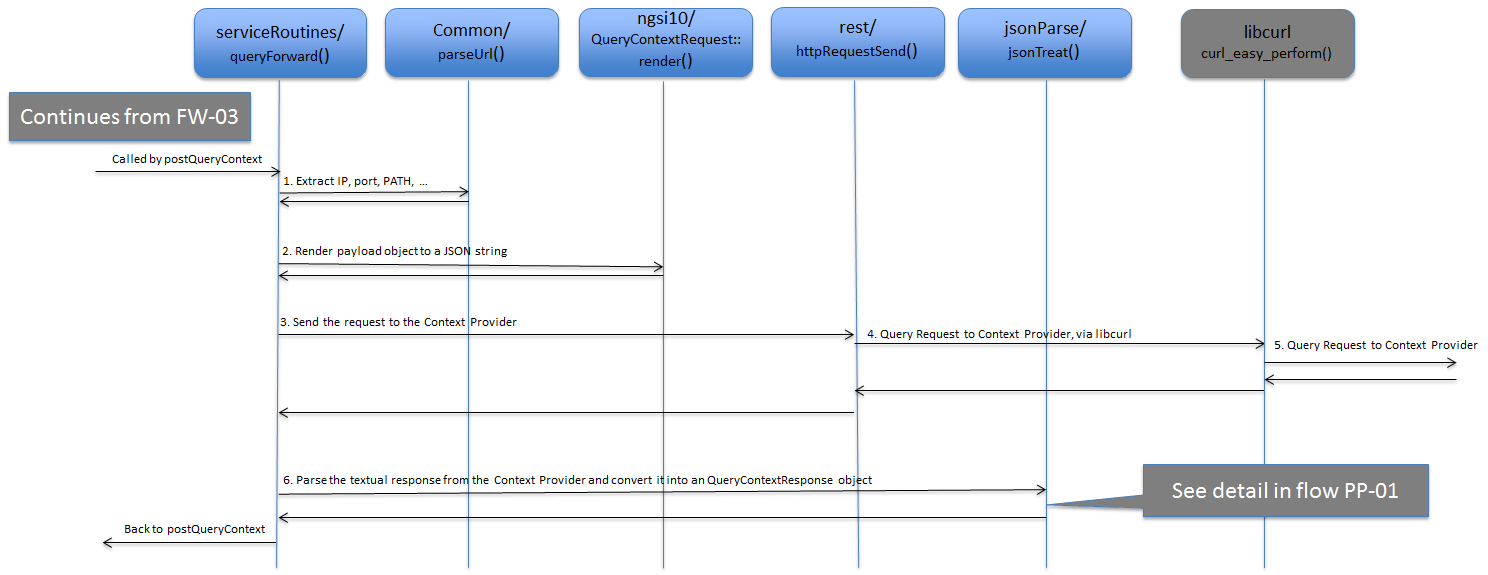
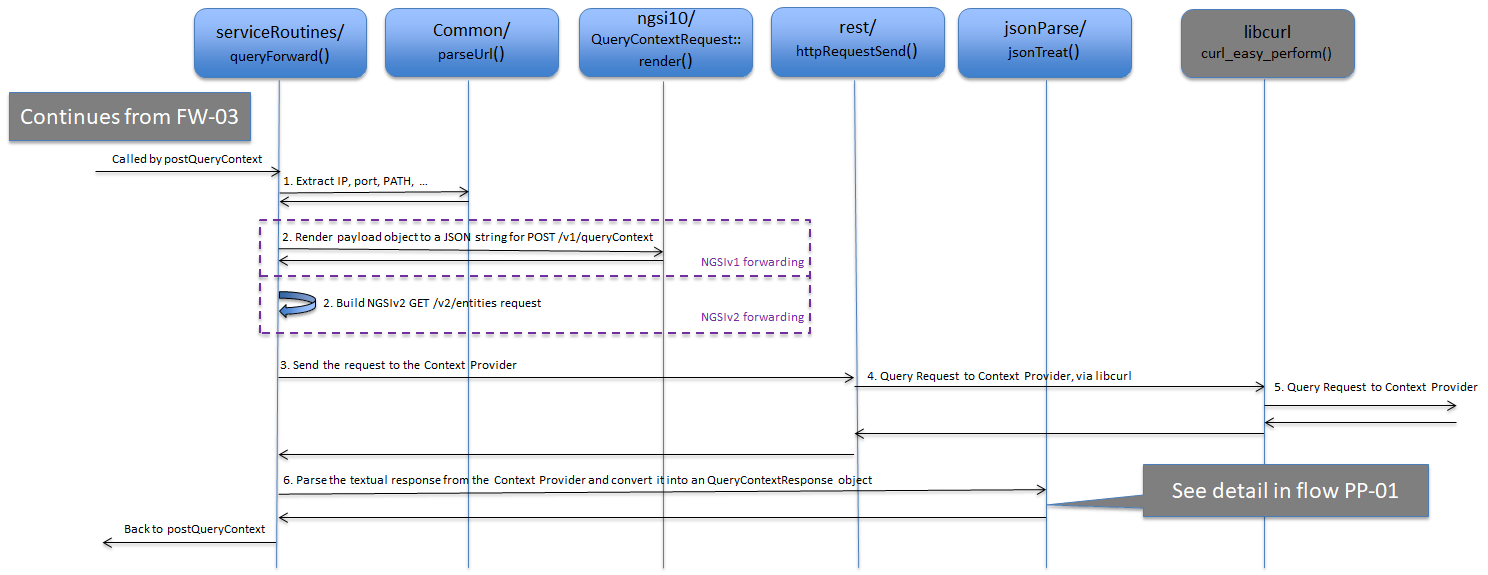
PR fixes

diff --git a/src/lib/ngsi/ProvidingApplication.h b/src/lib/ngsi/ProvidingApplication.h
@@ -53,7 +53,7 @@ typedef struct ProvidingApplication
 {
   std::string     string;
   MimeType        mimeType;        // Not part of NGSI itself, used by the CB to specify the preferred Mime-Type for CPr interaction
-                                   // FIXME: Remove mimeType when NGSIv1 forwarding is removed.
+                                   // FIXME: Remove 'mimeType' - shouldn't be needed
   ProviderFormat  providerFormat;  // PfJson ("JSON" in mongo): NGSIv1, PfV2: NGSIv2
 
   ProvidingApplication();

diff --git a/doc/manuals/devel/cprs.md b/doc/manuals/devel/cprs.md
@@ -89,7 +89,7 @@ The `QueryContextRequest` items are filled in based on the output of the [**mong
 _FW-04: `queryForward()` function detail_
 
 * Parse the context provider string to extract IP, port, URI path, etc. (step 1).
-* As forwards are done as REST requests, we need to extract information of the binary object to be able to send the REST request (plain text) to the Context Provider (step 2).
+* The request to forward has to be built (step 2). In the case of NGSIv1, we need to extract information of the binary object into text to be able to send the REST request (plain text) to the Context Provider using POST /v1/queryContext. In the case of NGSIv2, the use GET /v2/entities and no payload is required.
 * The request to forward is sent with the help of `httpRequestSend()` (step 3) which uses [libcurl](https://curl.haxx.se/libcurl/) to forward the request (step 4). libcurl sends in sequence the request to the Context Provider (step 5).
 * The textual response from the Context Provider is parsed and an `QueryContextResponse` object is created (step 6). Parsing details are provided in diagram [PP-01](jsonParse.md#flow-pp-01).
 

diff --git a/doc/manuals/user/walkthrough_apiv2.md b/doc/manuals/user/walkthrough_apiv2.md
@@ -181,7 +181,7 @@ curl localhost:1026/<operation_url> -s -S [headers] -X DELETE
 
 Regarding \[headers\] you have to include the following ones:
 
--   Accept header to specify the payload formatin which
+-   Accept header to specify the payload format in which
     you want to receive the response. You should explicitly specify JSON.
 
 ```
@@ -734,7 +734,7 @@ Write it down because you will need it later in this tutorial.
 < Date: Wed, 25 May 2016 11:05:35 GMT
 ```
 
-Let's have a look now at accumulator-server.py. We will see one notifyContextRequest (and
+Let's have a look now at accumulator-server.py. We will see one notification (and 
 just one for the moment, no matter how long you wait), similar to this one:
 
 ```

diff --git a/doc/manuals/user/context_providers.md b/doc/manuals/user/context_providers.md
@@ -74,7 +74,7 @@ curl localhost:1026/v2/entities/Street4/attrs/temperature?type=Street -s -S \
   <http://sensor48.mycity.com/v2> does know about the Street4 temperature, so it forwards the query
   (message number 3) to the URL
   <http://sensor48.mycity.com/v2/entities> (i.e., the URL used in
-  the Providing Application field at registration time, and adding "/entities" to the URL PATH).
+  the `url` field at registration time, and adding "/entities" to the URL PATH).
 
 If NGSIv2 forwarding is used, the forwarded query doesn't carry any payload.
 It would be something like this:
